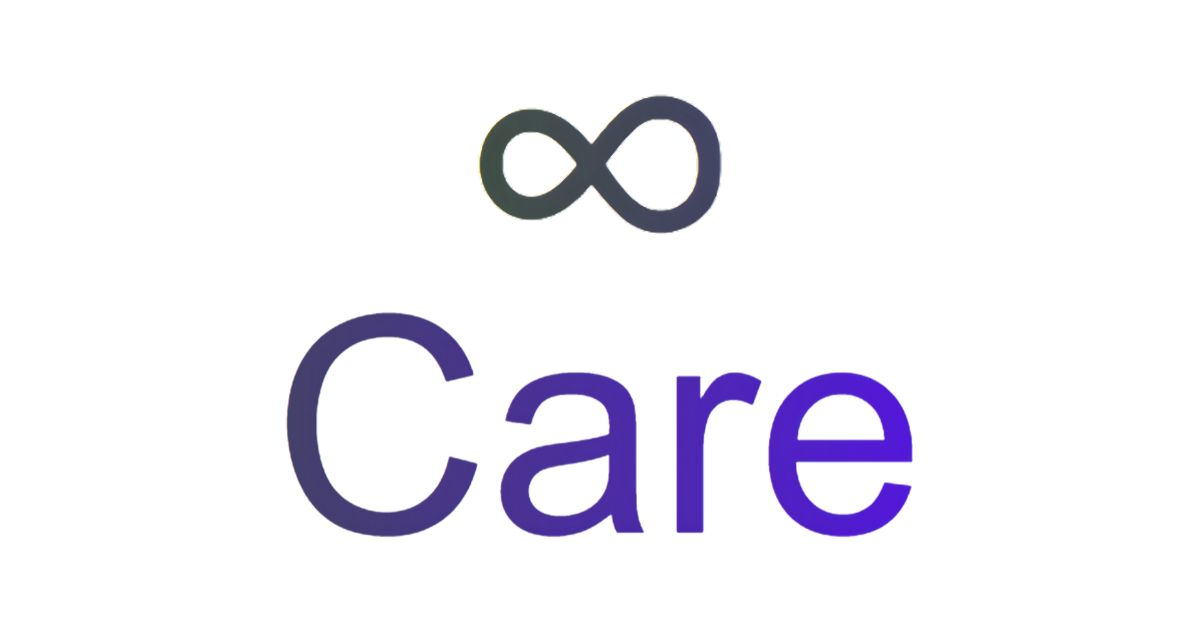
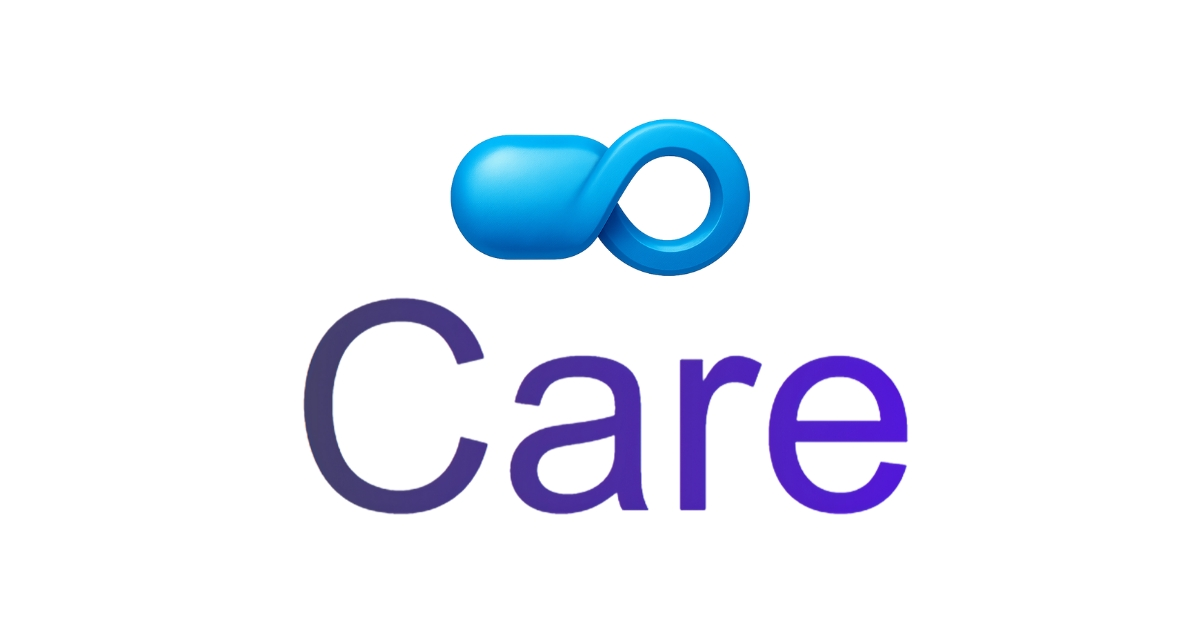
done

Changed region(s): [[0.2158, 0.4524, 0.7708, 0.8746], [0.37, 0.1508, 0.6475, 0.4524]]

diff --git a/index.html b/index.html
@@ -36,7 +36,7 @@
         <meta name="twitter:image" content="https://ldxh.id.vn/src/assets/img/og-image.jpg">
     
         <!-- ========== Favicon & Liên kết ========== -->
-        <link rel="icon" href="/src/assets/img/favicon/favicon3.ico" type="image/x-icon">
+        <link rel="icon" href="/src/assets/img/favicon/favicon4.png" type="image/x-icon">
         <link rel="canonical" href="https://ldxh.id.vn/">
     
         <!-- ========== CSS & Fonts ========== -->
@@ -159,15 +159,7 @@
 
                             <div class="header-logo">
                                 <a href="../khanh/trangchu.html" class="header__logo-link">
-                                    <svg class="header-logo-icon" xmlns="http://www.w3.org/2000/svg">
-                                        <defs>
-                                            <linearGradient id="grad" x1="0%" y1="0%" x2="100%" y2="0%">
-                                                <stop offset="0%" style="stop-color: #404f40; stop-opacity: 1;" />
-                                                <stop offset="100%" style="stop-color: #5419df; stop-opacity: 1;" />
-                                            </linearGradient>
-                                        </defs>
-                                        <text x="10" y="70" font-family="Arial, sans-serif" font-size="50" fill="url(#grad)">∞Care</text>
-                                    </svg>
+                                    <img src="./src/assets/img/logo.png" alt="" class="logo-img">
                                 </a>
                             </div>
                         </a>

diff --git a/src/assets/css/style.css b/src/assets/css/style.css
@@ -531,6 +531,10 @@
     user-select: none;
 }
 
+.logo-img {
+    width: 170px;
+}
+
 .header__search {
     display: flex;
     align-items: center;
